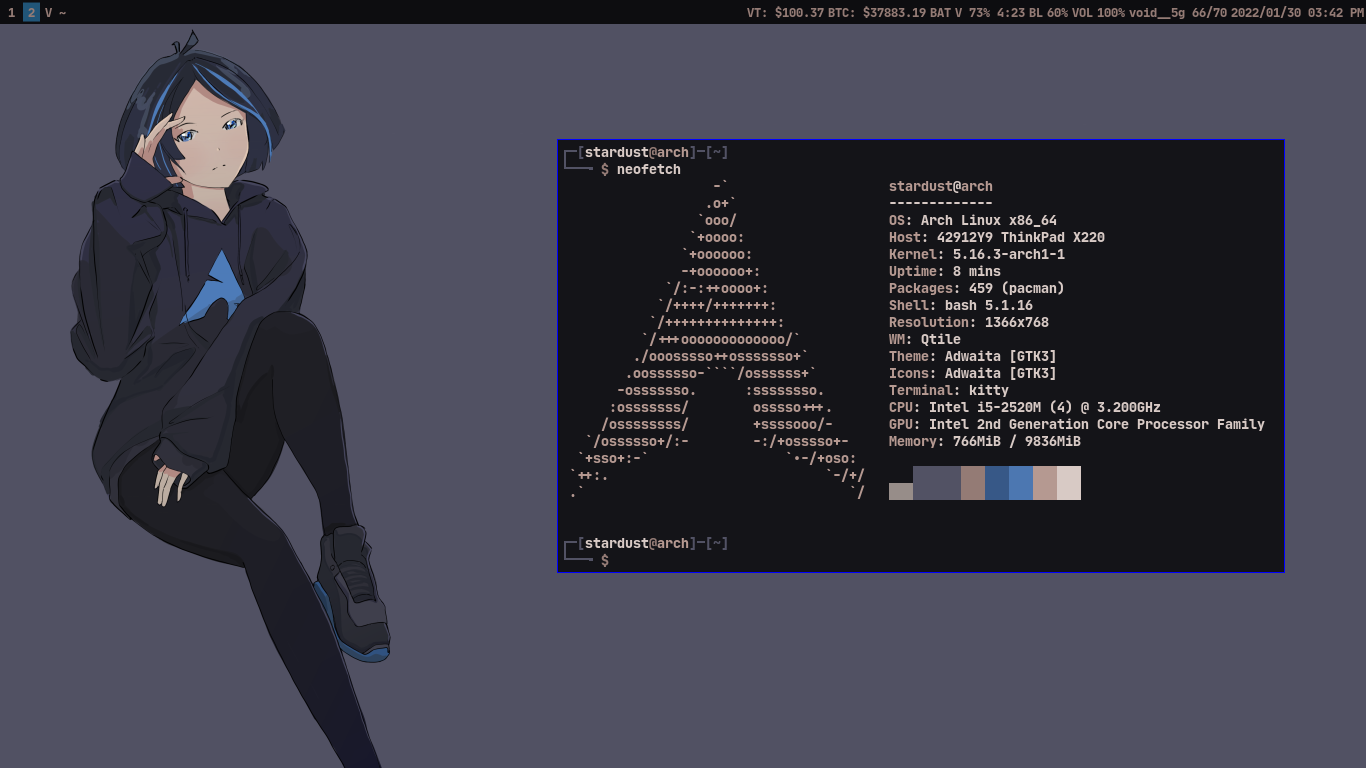
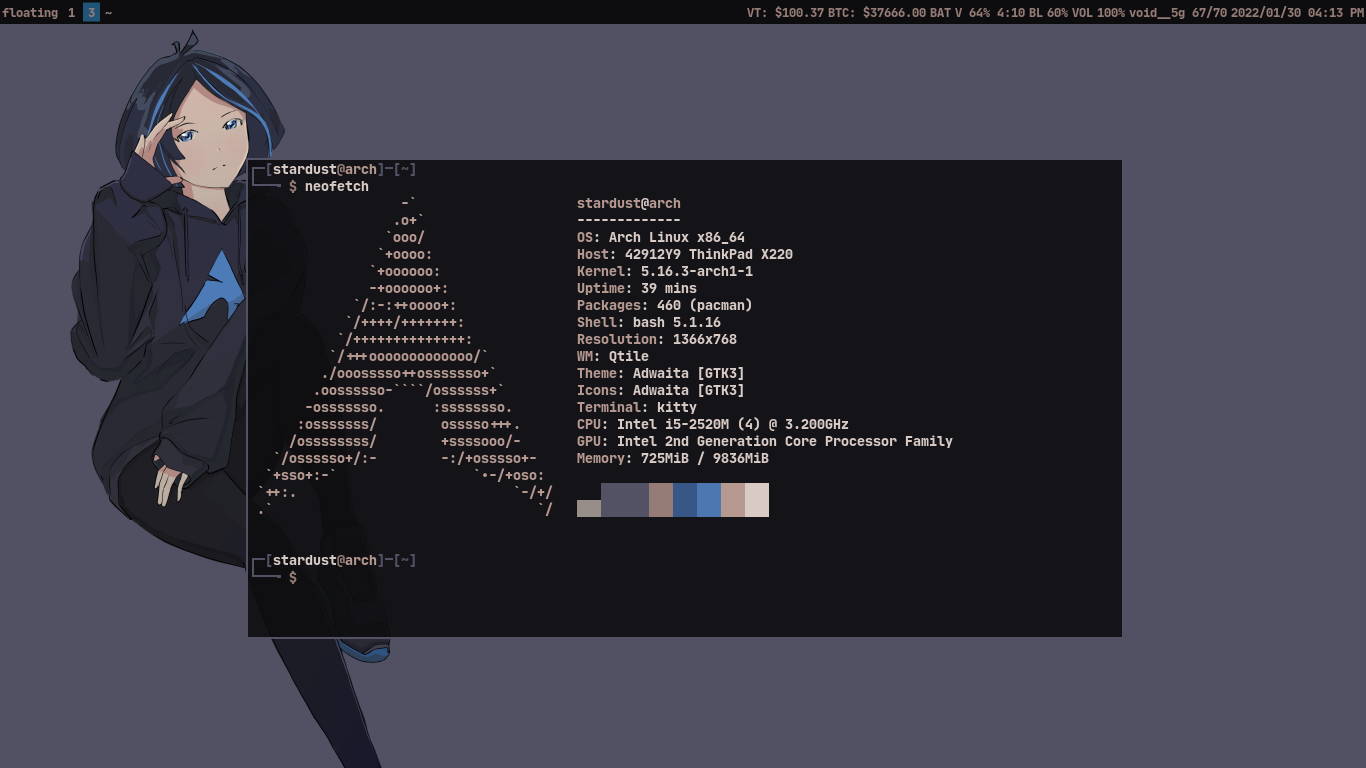
new ss

diff --git a/config/qtile/config.py b/config/qtile/config.py
@@ -24,6 +24,8 @@
 # OUT OF OR IN CONNECTION WITH THE SOFTWARE OR THE USE OR OTHER DEALINGS IN THE
 # SOFTWARE.
 
+import os
+
 from typing import List  # noqa: F401
 
 from libqtile import bar, layout, widget
@@ -122,8 +124,9 @@ for i in groups:
     )
 
 layouts = [
-    layout.Columns(margin=5, border_width=2, border_focus=colors[1], border_normal=colors[0]),
-    #layout.Max(),
+    layout.MonadTall(margin=5, border_width=2, border_focus=colors[1], border_normal=colors[0]),
+    layout.Floating(border_width=2, border_focus=colors[1], border_normal=colors[0]),
+    layout.Max(),
     # Try more layouts by unleashing below layouts.
     # layout.Stack(num_stacks=2),
     # layout.Bsp(),
@@ -149,6 +152,8 @@ screens = [
     Screen(
         top=bar.Bar(
             [
+                #widget.CurrentLayoutIcon(custom_icon_paths = [os.path.expanduser("~/.config/qtile/icons")]),
+                widget.CurrentLayout(),
                 widget.GroupBox(
                     rounded=False, 
                     hide_unused=True,
@@ -189,7 +194,7 @@ dgroups_app_rules = []  # type: List
 follow_mouse_focus = True
 bring_front_click = False
 cursor_warp = False
-floating_layout = layout.Floating(
+floating_layout = layout.Floating(border_width=2, border_focus=colors[1], border_normal=colors[0],
     float_rules=[
         # Run the utility of `xprop` to see the wm class and name of an X client.
         *layout.Floating.default_float_rules,
